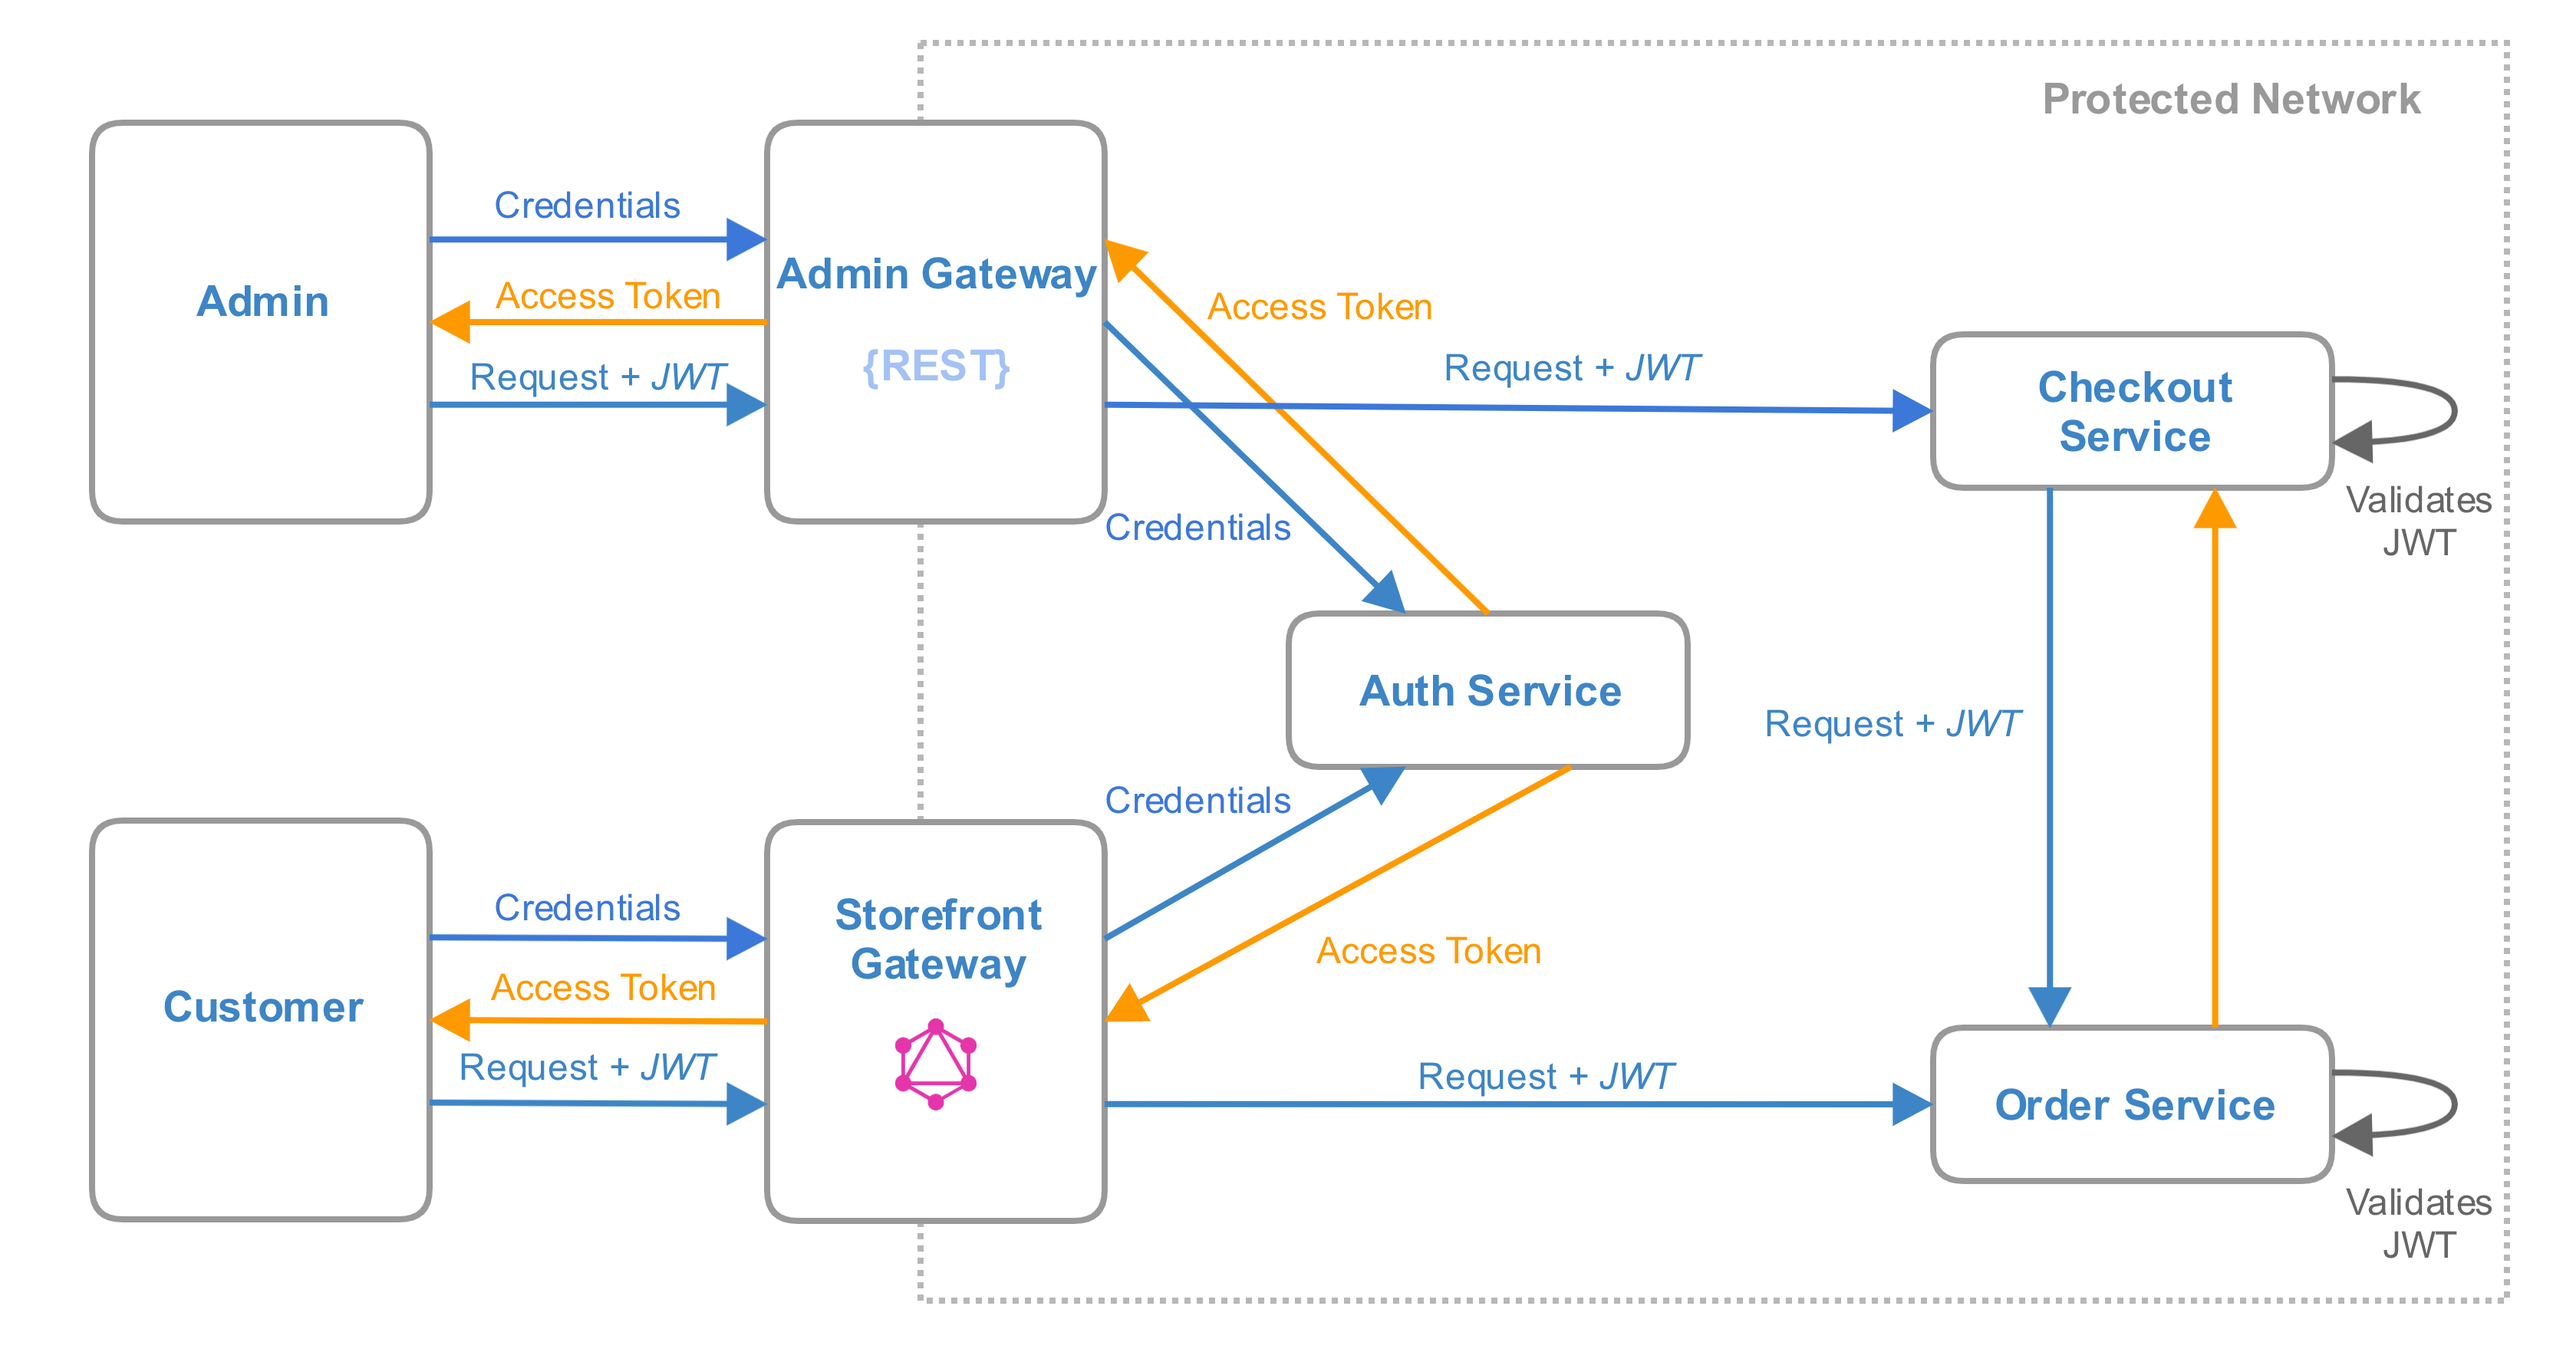
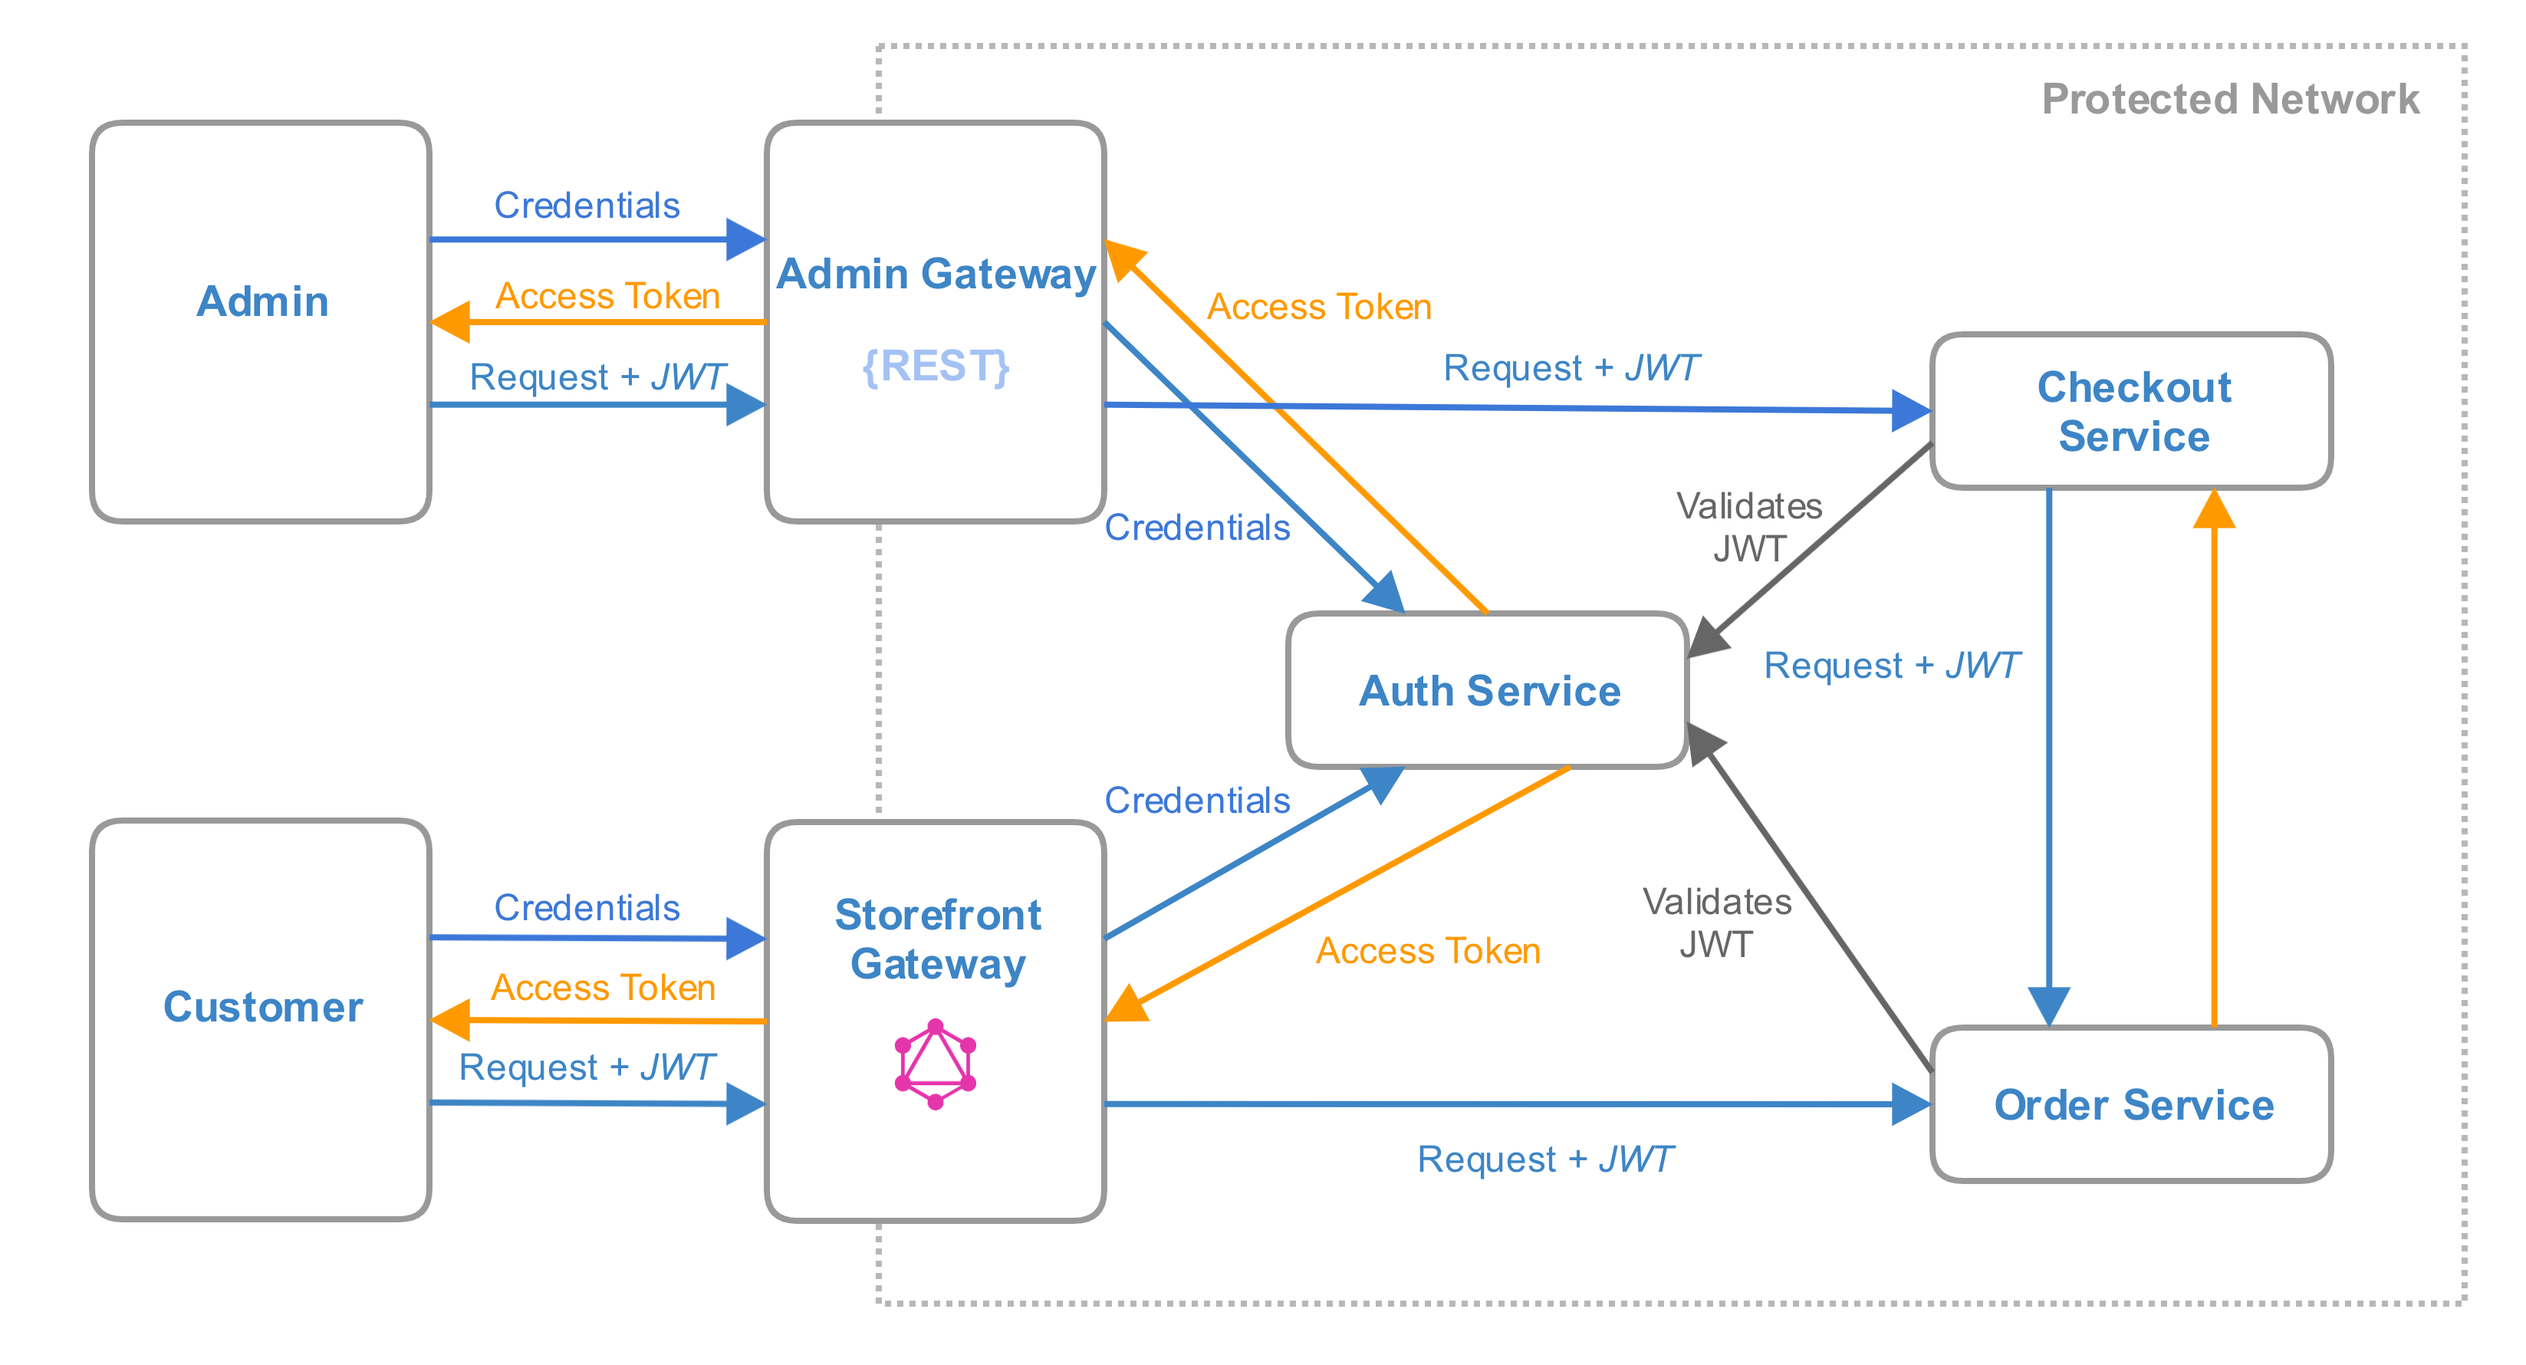
Reworked diagrams

diff --git a/design-documents/service-isolation/authentication-authorization.md b/design-documents/service-isolation/authentication-authorization.md
@@ -56,25 +56,31 @@ HMACSHA256(
     
 ## General Schema
 
+Now, current Magento authorization mechanism based on roles and assigned rules...
+
 As Magento should provide [multiple BFF](https://github.com/magento/architecture/blob/master/design-documents/service-isolation.md#backends-for-frontends)
 it makes sense to extract authentication and authorization flow to a separate `Auth Service` to avoid credentials
 validation and duplication of roles & privileges data. And the general schema might look like this:
 
 ![Authentication and Authorization General Schema](auth-general-schema.png)
 
-And the basic scenario might be as following:
+1. An unauthorized user sends request with credentials to retrieve an access token, BFF/Monolith proxies this request to
+Auth Service which performs authorization & authentication and issues access token based on a user role.
+2. The user sends request to get needed resource with access token, BFF/Monolith proxies this request to the appropriate
+service and there are few multiple strategies for token validation:
+    - BFF/Monolith just verifies the token signature (each service sends a token for validation to `Auth Service`)
+    - BFF/Monolith sends the token to `Auth Service` for validation
+3. A service sends the token for validation to `Auth Service` and, if a request is allowed, the service processes the request.
+4. In case, if the services requires additional data from another service, it creates a new request and set received token
+as in original request. So, additional service, can send the token for validation to `Auth Service` to check user permissions.
+
+The basic scenario might be as following:
 
 ![Auth Basic Scenario](auth-basic-scenario.png)
 
-Also, there are a few variants of the proposed schema like to have separate services for token validation and renewal:
-
-![Token Validation Service](token-validation-service.png)
-
-Now, each service validates a token through `Token Service` it reduces logic duplication but adds additional requests
-which might impact on performance.
-
-According to the proposed schema, user-Monolith/BFF scenario could use JWE tokens, Monolith/BFF - service could use JWS
-tokens to make the communication more secure.
+A token validation per each request on Auth Service allows keeping authorization process in the centralized place, only
+Auth Service knows about all users, roles and assigned privileges. Each service during deployment should expose their API
+to `Auth Service`, which can automatically assign API to existing roles based on default rules.
 
 ### OAuth 2.0
 
